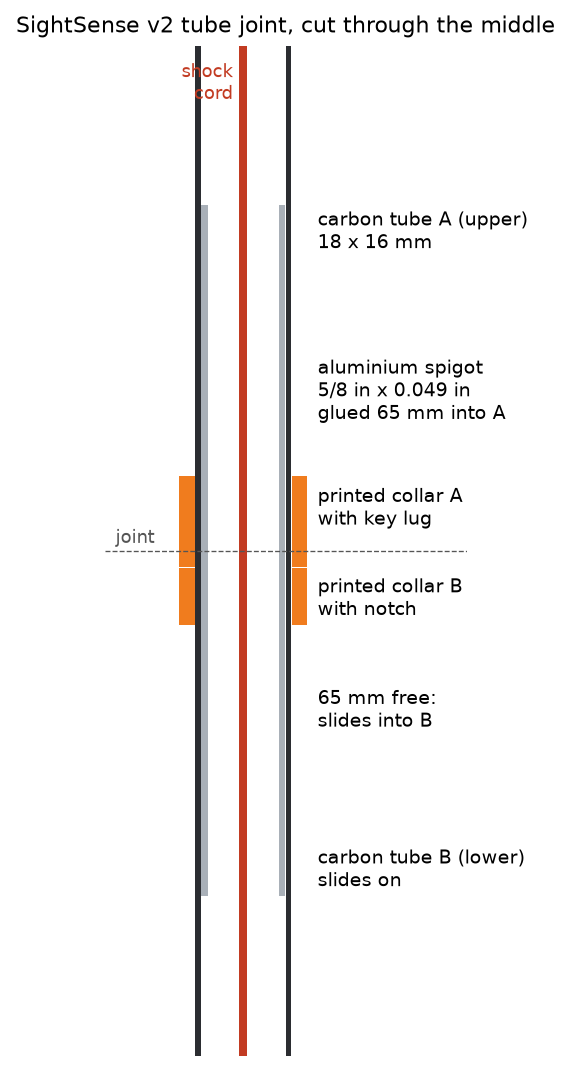
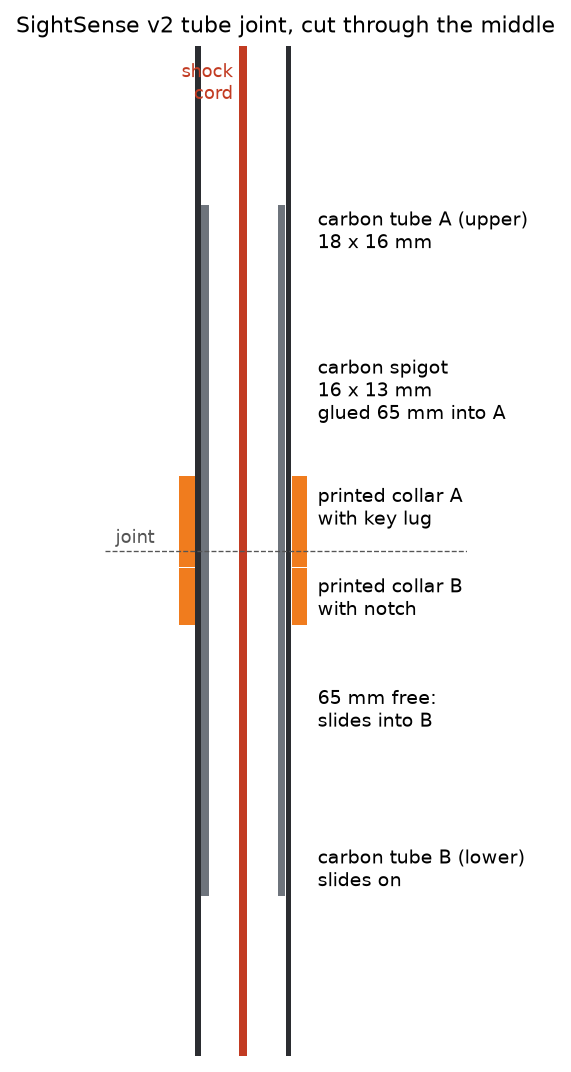
v2 tube joint: a carbon tube inside the joint instead of aluminium
A 16 x 13 mm carbon tube, its sliding half sanded to about 15.9 mm, replaces the
5/8 in aluminium spigot: about 109 N*m before it breaks (estimate), 9 times the
load estimate. Sold 420 mm long, two to a pack, so one pack makes six.

Changed region(s): [[0.3275, 0.1847, 0.387, 0.8312], [0.4764, 0.1847, 0.5061, 0.8312], [0.5359, 0.3386, 0.8336, 0.3694]]

diff --git a/hardware/tube-joint/model.py b/hardware/tube-joint/model.py
@@ -2,7 +2,7 @@
 
 The old joint (SightSense hardware/cane-coupler v3/v4) put all the bending through a 10 x 8.5 mm printed
 tongue with a hole down it: about 2-4 N*m printed upright, against an estimated 8-12 N*m when the cane is
-lifted by the handle. Here an aluminium tube (a spigot, like a tent pole's ferrule) carries the bending: it is
+lifted by the handle. Here a smaller carbon tube (a spigot, like a tent pole's ferrule) carries the bending: it is
 glued deep into one carbon tube and slides deep into the next. The two printed collars only stop the sections
 twisting (an off-centre key, so it only goes together one way) and hoop the tube mouths so the carbon cannot
 split where the spigot bears on it.
@@ -28,8 +28,9 @@ _check.check = _cane_check
 
 # ------------------------------------------------------------------ numbers you might change
 TUBE_OD, TUBE_ID = 18.0, 16.0          # the carbon tubes now on the cane (hardware/BOM.md); measure yours
-SPIGOT_OD = 15.875                     # 5/8 in 6061-T6 aluminium tube...
-SPIGOT_WALL = 1.245                    # ...0.049 in wall: 0.06 mm a side in a 16.00 mm bore
+SPIGOT_BOUGHT = (16.0, 13.0)           # carbon tube 16 x 13 mm (bought 420 mm long, 2 per pack)
+SPIGOT_OD = 15.9                       # its sliding half sanded down to slide in a 16.0 mm bore
+SPIGOT_WALL = (SPIGOT_OD - SPIGOT_BOUGHT[1]) / 2
 GLUED, FREE = 65.0, 65.0               # spigot glued into A / sliding into B (both over 3.5 x the tube size)
 TUBE_LEN = 400.0                       # each of the two carbon tubes (the 400 mm tubes v1 used)
 COLLAR_LEN, COLLAR_OD = 14.0, 24.0     # printed collar over each tube end
@@ -41,7 +42,6 @@ CORD = 3.2                             # 1/8 in shock cord, through the spigot
 # ------------------------------------------------------------------ strength (estimates, not measurements)
 LOAD = (8.0, 12.0)                     # N*m at an upper joint, cane carried level: hardware/joint-sleeve/README.md
 OLD_TONGUE = (2.0, 4.0)                # N*m the old printed tongue takes, printed upright (same README)
-AL_YIELD = 240.0                       # MPa, 6061-T6 minimum
 CF_STRENGTH = 500.0                    # MPa, typical for roll-wrapped carbon tube in bending (assumed)
 
 R_BORE = TUBE_OD / 2 + GLUE_GAP
@@ -89,8 +89,8 @@ def build():
     carbon = "#2B2D31"
     tube_a = a.add(tube(TUBE_OD, TUBE_ID, 0, TUBE_LEN), "carbon tube A (upper)", kind="other", color=carbon)
     tube_b = a.add(tube(TUBE_OD, TUBE_ID, -TUBE_LEN, TUBE_LEN), "carbon tube B (lower)", kind="other", color=carbon)
-    spigot = a.add(tube(SPIGOT_OD, SPIGOT_ID, -FREE, GLUED + FREE), "spigot: 5/8 in x 0.049 in aluminium tube",
-                   kind="machined_aluminum")
+    spigot = a.add(tube(SPIGOT_OD, SPIGOT_ID, -FREE, GLUED + FREE), "spigot: carbon tube 16 x 13 mm",
+                   kind="other", color="#3A3D42")
     ca = a.add(collar_a(), "collar A (keyed)", kind="printed")
     cb = a.add(collar_b(), "collar B (notched)", kind="printed")
     a.add(Pos(0, 0, -TUBE_LEN) * Cylinder(CORD / 2, 2 * TUBE_LEN, align=(Align.CENTER, Align.CENTER, Align.MIN)),
@@ -106,19 +106,19 @@ def build():
 
     # strength: the spigot now carries the bending, not printed plastic
     z_sp = section_modulus(SPIGOT_OD, SPIGOT_ID)
-    m_sp = z_sp * AL_YIELD / 1000
+    m_sp = z_sp * CF_STRENGTH / 1000
     m_cf = section_modulus(TUBE_OD, TUBE_ID) * CF_STRENGTH / 1000
     a.require(m_sp >= 3 * LOAD[1],
-              f"spigot bends at about {m_sp:.0f} N*m (Z {z_sp:.0f} mm^3, 6061-T6): {m_sp / LOAD[1]:.1f}x the "
+              f"spigot bends at about {m_sp:.0f} N*m (Z {z_sp:.0f} mm^3, carbon, assumed {CF_STRENGTH:.0f} MPa): {m_sp / LOAD[1]:.1f}x the "
               f"{LOAD[1]:.0f} N*m load estimate; the old tongue took {OLD_TONGUE[0]:.0f}-{OLD_TONGUE[1]:.0f}")
-    a.require(m_cf >= m_sp, f"the carbon tube itself is stronger again: about {m_cf:.0f} N*m (assumed {CF_STRENGTH:.0f} MPa)")
+    a.require(m_cf >= 0.9 * m_sp, f"the outer carbon tube is about as strong: about {m_cf:.0f} N*m (assumed {CF_STRENGTH:.0f} MPa)")
     a.require(min(GLUED, FREE) >= 3.5 * TUBE_OD,
               f"spigot reaches {GLUED:.0f} mm into A and {FREE:.0f} mm into B (rule of thumb: 3.5 x {TUBE_OD:.0f} mm)")
     play = (TUBE_ID - SPIGOT_OD) / 2
     a.require(0 < play <= 0.15, f"spigot to tube clearance {play:.3f} mm a side (sliding, little wobble)")
     a.require(LUG_CLEAR >= 0.2, f"lugs have {LUG_CLEAR} mm clearance a side in their notches (prints go together)")
     a.require(SPIGOT_ID > CORD + 2, f"cord {CORD} mm runs through the spigot's {SPIGOT_ID:.1f} mm bore")
-    a.hardware("6061-T6 aluminium tube, 5/8 in OD x 0.049 in wall, cut to 130 mm (one per joint)", 1)
+    a.hardware("carbon tube 16 x 13 mm, cut to 130 mm, sliding half sanded to fit (one per joint; a 420 mm tube makes three)", 1)
     a.hardware("1/8 in shock cord, through both tubes", 1)
     a.hardware("2-part epoxy: spigot into tube A, collars onto their tubes", 1)
     return a

diff --git a/hardware/tube-joint/README.md b/hardware/tube-joint/README.md
@@ -1,6 +1,6 @@
 # Tube joint (v2)
 
-The joint between the cane's two carbon tubes, redone because the v1 joint snapped. An aluminium tube inside the joint, like a tent pole's, takes the bending; two small printed collars only stop the sections twisting and keep the tube mouths from splitting. The cane still comes apart into its two sections, held together by the shock cord.
+The joint between the cane's two carbon tubes, redone because the v1 joint snapped. A thinner carbon tube inside the joint, like a tent pole's, takes the bending; two small printed collars only stop the sections twisting and keep the tube mouths from splitting. The cane still comes apart into its two sections, held together by the shock cord.
 
 Experimental prototype. Nothing here has been printed, fitted or load tested. The strength figures are estimates from the model and from typical material values, not measurements.
 
@@ -21,23 +21,23 @@ In [`../cane-coupler/`](../cane-coupler/) the tubes only butt end to end, and th
 
 | Part | What it does |
 | --- | --- |
-| Aluminium spigot | A 130 mm length of 5/8 in × 0.049 in 6061-T6 tube. Glued 65 mm into the upper tube; the other 65 mm slides into the lower tube. It carries all the bending across the joint |
+| Carbon spigot | A 130 mm length of 16 × 13 mm carbon tube. Glued 65 mm into the upper tube; the other 65 mm slides into the lower tube. It carries all the bending across the joint |
 | Collar A | Printed ring glued over the upper tube's end. Two lugs, one wide and one narrow, stick down past the joint |
 | Collar B | Printed ring glued over the lower tube's end, with the two matching notches. The lugs stop the sections twisting, and only fit one way, so the wheel always ends up facing forward |
 | Shock cord | 1/8 in, through both tubes and the spigot, pulls the sections together |
 
 | | Estimate |
 | --- | --- |
-| Spigot, bending before it yields | about 47 N·m (section modulus 194 mm³, 240 MPa): about 4 times the 12 N·m load estimate, and about 12 times what the v1 tongue took |
-| The carbon tube itself | about 108 N·m (assuming 500 MPa) |
-| Spigot to tube clearance | 0.06 mm a side, in a 16.00 mm bore |
+| Spigot, bending before it breaks | about 109 N·m (section modulus 218 mm³, assuming 500 MPa): about 9 times the 12 N·m load estimate, and about 27 times what the v1 tongue took |
+| The outer carbon tube | about the same, 108 N·m (same assumption) |
+| Spigot to tube clearance | 0.05 mm a side, after sanding its sliding half to 15.9 mm, in a 16.0 mm bore |
 
 ## Dimensions
 
 | Feature | Value |
 | --- | --- |
 | Tubes | Two, 18 mm outside, 16 mm inside, 400 mm long: 800 mm of tube, half of v1's four |
-| Spigot | 15.875 mm outside (5/8 in), 1.245 mm wall (0.049 in), 130 mm long |
+| Spigot | Carbon tube 16 mm outside, 13 mm inside (1.5 mm wall), 130 mm long; the sliding half sanded to about 15.9 mm |
 | Collars | 24 mm outside, 18.3 mm bore (0.15 mm a side for epoxy), 14 mm long |
 | Key | Lugs 3 mm tall, 40° and 24° wide; notches 0.25 mm wider a side and 3.3 mm deep |
 
@@ -53,17 +53,18 @@ In [`../cane-coupler/`](../cane-coupler/) the tubes only butt end to end, and th
 
 | Qty | Item |
 | --- | --- |
-| 1 | 6061-T6 aluminium tube, 5/8 in outside, 0.049 in wall, cut to 130 mm |
+| 1 | Carbon tube, 16 mm outside, 13 mm inside, cut to 130 mm. Sold in 420 mm lengths, two to a pack, so one pack makes six |
 | 1 | 1/8 in shock cord, as long as both tubes |
 | — | Two-part epoxy |
 
 ## Building it
 
-1. **Measure the carbon tubes' bore** before buying the spigot. It must be 16.0 mm or a hair more. If the spigot is tight, sand its free half lightly; if it rattles, a turn of thin tape on the free half takes up the play.
-2. File a small chamfer round both ends of the spigot so it slides in without catching.
-3. Sand the inside of the upper tube's end and the outside of the spigot's glued half, then glue the spigot 65 mm into the upper tube.
-4. Glue collar A over the upper tube's end and collar B over the lower tube's end, flush with the tube ends. Push the two together while the glue sets, so the lugs line up with the notches; keep glue off the spigot's free half.
-5. Thread the shock cord through both tubes and tie it off at each end.
+1. **Measure the 18 mm tubes' bore** with calipers. It should be 16.0 mm or a hair more; a 16 mm spigot then fits with no gap, so it will be tight.
+2. Cut 130 mm off the 16 × 13 mm tube with a fine saw, wrapping the cut line in tape so the fibres do not splinter.
+3. **Sand the sliding half** (65 mm from one end) with wet 400 grit until it slides into the 18 mm tube without forcing and without wobble. Sand wet and wear a mask: carbon dust is bad to breathe. Round both ends slightly so it slides in without catching.
+4. Roughen the inside of the upper tube's end and the outside of the spigot's other half, then glue the spigot 65 mm into the upper tube.
+5. Glue collar A over the upper tube's end and collar B over the lower tube's end, flush with the tube ends. Push the two together while the glue sets, so the lugs line up with the notches; keep glue off the spigot's free half.
+6. Thread the shock cord through both tubes and tie it off at each end.
 
 ## Printing
 
@@ -74,6 +75,6 @@ These are suggestions, not tested settings.
 
 ## Still to check
 
-1. The carbon tubes' real bore, against the spigot.
-2. That the joint does not wobble with the spigot's 0.06 mm clearance, once the cord pulls it closed.
+1. The 18 mm tubes' real bore, against the 16 mm spigot.
+2. That the joint does not wobble once the sliding half is sanded and the cord pulls it closed.
 3. How it holds up when the cane is lifted, leaned on and knocked: a load test, with the result written here.

diff --git a/hardware/README.md b/hardware/README.md
@@ -4,7 +4,7 @@ Printable parts, wiring and build notes for the cane.
 
 | Folder / file | Contents | Status |
 | --- | --- | --- |
-| [`tube-joint/`](tube-joint/) | v2 joint between the cane's two tubes: an aluminium spigot inside carries the bending, two printed collars key it | Design in (November 15), not printed or tested; strength figures are estimates |
+| [`tube-joint/`](tube-joint/) | v2 joint between the cane's two tubes: a thinner carbon tube inside carries the bending, two printed collars key it | Design in (November 15), not printed or tested; strength figures are estimates |
 | [`cane-coupler/`](cane-coupler/) | v1: keyed two-piece insert that joined the tube sections. v4 adds an M3 cross bolt and a receiver that holds the gearmotor at the tip | v1 joint snapped; replaced by [`tube-joint/`](tube-joint/) in v2. The v4 insert is still used at the motor end until that is redone |
 | [`BOM.md`](BOM.md) | Bill of materials: electronics, tubes, printed parts, screws and nuts, with the page each line comes from | No prices or shop links |
 | [`wiring.md`](wiring.md) | Raspberry Pi, IBT-2 motor driver, motor, switches and power, with a check list and first tests | Six Pi-to-driver wires fitted; switches, fuse and kill switch not fitted; not tested under power |

diff --git a/AGENTS.md b/AGENTS.md
@@ -120,7 +120,7 @@ At the hackathon, device addresses depended on the local router or Tailscale net
 | Cane board firmware | Arduino / PlatformIO (October 14). |
 | Voice | Push-to-talk, on-device speech recognition on the iPhone. |
 | Places | Apple MapKit walking directions, looked up on the phone. |
-| Cane | Two 400 mm carbon-fibre tubes, 18 mm, joined by an aluminium spigot with printed key collars (v2, November 15). v1's printed coupler snapped, and three or four tubes were too long. |
+| Cane | Two 400 mm carbon-fibre tubes, 18 mm, joined by a 16 × 13 mm carbon tube inside the joint with printed key collars (v2, November 15). v1's printed coupler snapped, and three or four tubes were too long. |
 | Printing | PETG-CF for rigid parts, TPU for pads and the tyre. |
 
 ## The algorithms, with starting numbers

diff --git a/hardware/BOM.md b/hardware/BOM.md
@@ -29,7 +29,7 @@ No prices or shop links are listed: the team's orders are not recorded in this r
 | Qty | Item | Details | From |
 | --- | --- | --- | --- |
 | 2 | Carbon-fibre tube | 18 mm outside, 16 mm inside, 400 mm long. Two since v2 (November 15); v1 had three or four, which was too long | [`tube-joint/`](tube-joint/) |
-| 1 | Aluminium tube | 6061-T6, 5/8 in outside, 0.049 in wall, cut to 130 mm: the spigot inside the joint | [`tube-joint/`](tube-joint/) |
+| 1 | Carbon-fibre tube | 16 mm outside, 13 mm inside, cut to 130 mm: the spigot inside the joint. Sold 420 mm long, two to a pack | [`tube-joint/`](tube-joint/) |
 | 1 | Shock cord | 1/8 in (3.2 mm), through both tubes and the spigot, so the cane comes apart like a tent pole | [`tube-joint/`](tube-joint/) |
 
 ## Printed parts
